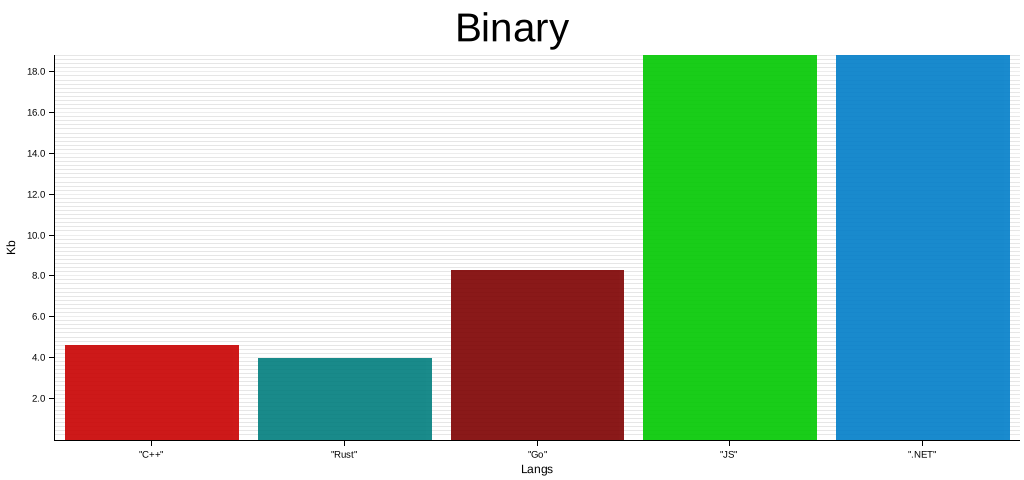
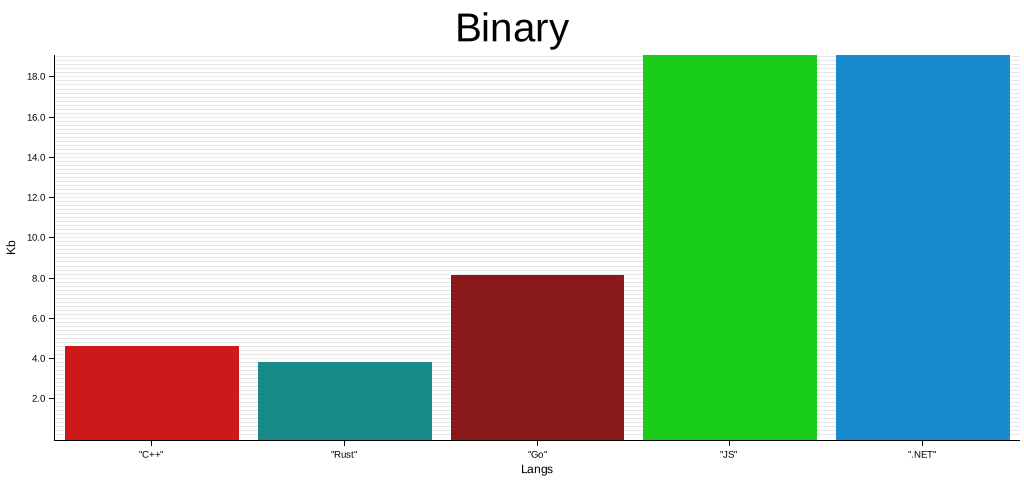
Update go compiler

diff --git a/README.md b/README.md
@@ -29,7 +29,7 @@ g++ -O3 -march=native main.cpp -o $(OUTPUT_BIN)
 ```
 
 #### Golang
-go version: go1.17.2 linux/amd64
+go version: go1.17.5 linux/amd64
 ```
 go build -o $(OUTPUT_BIN) cmd/cli/main.go 
 ```
@@ -69,11 +69,11 @@ overflow-checks = false
 
 | Lang |Time | Memory | Normal | Average | Bad | Worst | 
 | --- | ---- |  ---- |  ---- |  ---- |  ---- |  ---- | 
-| C++ | 0:08.88 |4680 |1648/2000 |257/2000 |75/2000 |117080 for 102 |
-| Go | 0:12.56 |8464 |1648/2000 |257/2000 |75/2000 |117080 for 102 |
-| .NET | 0:14.79 |157376 |1648/2000 |257/2000 |75/2000 |117080 for 102 |
-| JS | 0:15.73 |70748 |1648/2000 |250/2000 |82/2000 |117080 for 102 |
-| Rust | 0:09.97 |4040 |1648/2000 |257/2000 |75/2000 |117080 for 102 |
+| C++ | 0:09.00 |4684 |1648/2000 |257/2000 |75/2000 |117080 for 102 |
+| Go | 0:12.03 |8340 |1648/2000 |257/2000 |75/2000 |117080 for 102 |
+| .NET | 0:14.92 |157264 |1648/2000 |257/2000 |75/2000 |117080 for 102 |
+| JS | 0:15.95 |71072 |1648/2000 |250/2000 |82/2000 |117080 for 102 |
+| Rust | 0:09.87 |3892 |1648/2000 |257/2000 |75/2000 |117080 for 102 |
 
 
 - **Time** - Elapsed (wall clock) time (h:mm:ss or m:ss) 
@@ -114,7 +114,7 @@ emcc -O3 \
 ```
 
 #### Golang
-go version: go1.17.2 linux/amd64
+go version: go1.17.5 linux/amd64
 ```
 GOOS=js GOARCH=wasm go build -o $(OUTPUT_WASM) cmd/wasm/main.go 
 ```
@@ -158,12 +158,12 @@ Tested on **HeadlessChrome/97.0.4691.0**
 
 | Lang |Time | Memory | Size | 
 | --- | ---- |  ---- |  ---- | 
-| C++ (Wasm) | 10.02 |768.00 |237.97 |
-| Rust (Wasm) | 15.34 |256.00 |45.76 |
-| JS (Browser) | 15.84 |17408.00 |55.15 |
-| Go (Wasm) | 34.04 |768.00 |2058.34 |
-| Blazor (AOT) | 163.12 |2484.00 |15263.32 |
-| Blazor | 226.65 |1932.00 |5146.18 |
+| C++ (Wasm) | 9.82 |768.00 |237.97 |
+| Rust (Wasm) | 14.90 |256.00 |45.76 |
+| JS (Browser) | 15.57 |17408.00 |55.15 |
+| Go (Wasm) | 32.47 |512.00 |2058.38 |
+| Blazor (AOT) | 159.62 |2228.00 |15263.32 |
+| Blazor | 219.95 |1676.00 |5146.18 |
 - **Time** - Calculation duration measured using browser Performance Api 
 - **Memory** - Difference (in Kb) between JSHeapTotalSize before loading script and after calculations run 
 - **Size** - Size (in Kb) of files loaded to run calculations 

diff --git a/docs/README.header.md b/docs/README.header.md
@@ -29,7 +29,7 @@ g++ -O3 -march=native main.cpp -o $(OUTPUT_BIN)
 ```
 
 #### Golang
-go version: go1.17.2 linux/amd64
+go version: go1.17.5 linux/amd64
 ```
 go build -o $(OUTPUT_BIN) cmd/cli/main.go 
 ```

diff --git a/docs/README.wasm.header.md b/docs/README.wasm.header.md
@@ -29,7 +29,7 @@ emcc -O3 \
 ```
 
 #### Golang
-go version: go1.17.2 linux/amd64
+go version: go1.17.5 linux/amd64
 ```
 GOOS=js GOARCH=wasm go build -o $(OUTPUT_WASM) cmd/wasm/main.go 
 ```
